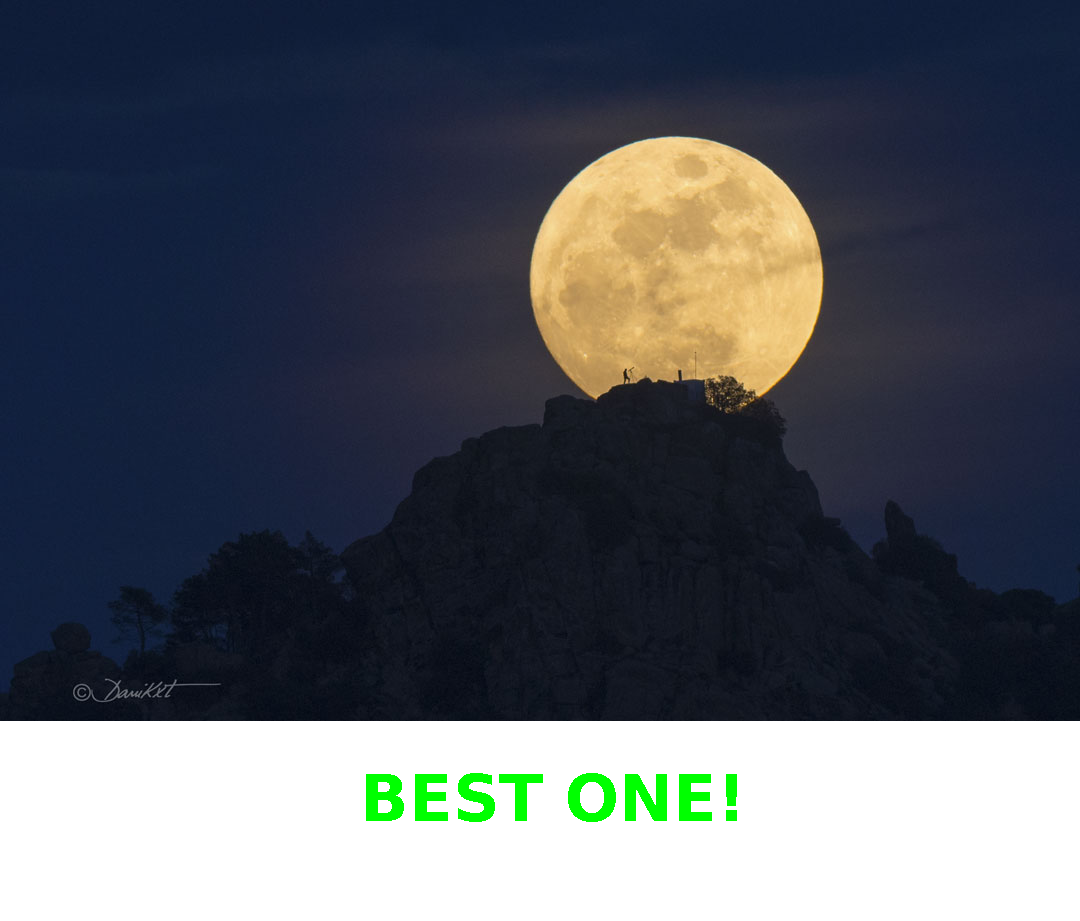
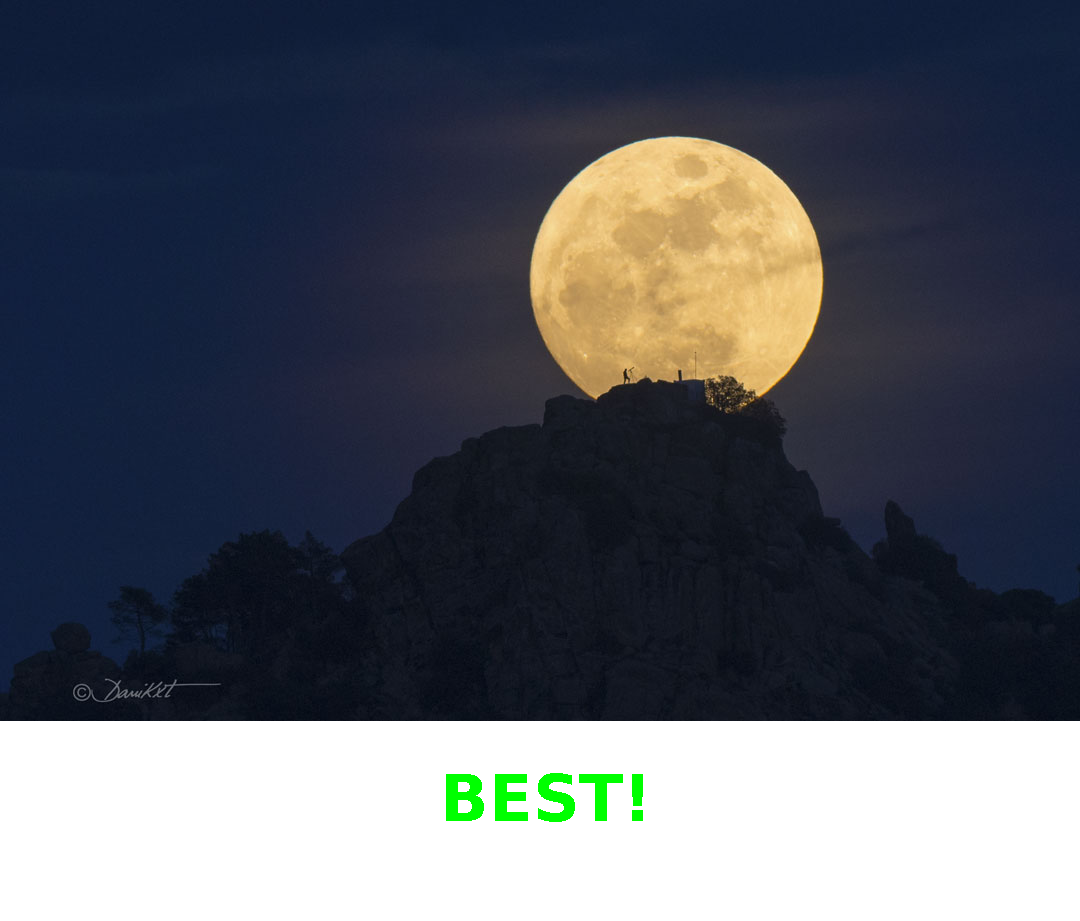
aula 3

Changed region(s): [[0.3361, 0.8208, 0.7028, 0.9121]]

diff --git a/src/App.java b/src/App.java
@@ -24,12 +24,11 @@ public class App {
         //- make http connection and get 250 top movies /////////////////////////////////////////
         //https://imdb-api.com/en/API/Top250Movies/k_6k2swk8s
         String url = "https://imdb-api.com/en/API/Top250Movies/"+ apiKeyIMDB;
-//        String url = "https://www.imdb.com/find/?q=series&ref_"+ apiKeyIMDB;
 
         // -nasa api https://api.nasa.gov/planetary/apod?api_key=DEMO_KEY ///////////////////////////
         String url2 = "https://api.nasa.gov/planetary/apod?api_key="+ apiKeyNASA+ "&start_date=2022-06-12&end_date=2022-06-14";
 
-        URI address = URI.create(url);
+        URI address = URI.create(url2);
        //HttpClient client = HttpClient.newHttpClient();//can only declare var if Java can find Type auto
         var client = HttpClient.newHttpClient();
        HttpRequest request = HttpRequest.newBuilder(address).GET().build();
@@ -48,13 +47,12 @@ public class App {
 
         //show data //////////////////////////////////////////////////////////////////////////////
         int size = contentList.size();
-        for (int i = 0; i < size ; i++){
+        for (Map<String, String> content : contentList) {
 //            Map<String, String> movie = movieList.get(i);
-            Map<String, String> content = contentList.get(i);
-//        for (Map<String,String> movie : movieList){
+            //        for (Map<String,String> movie : movieList){
 
             System.out.println("\u001B[1mTitle : " + content.get("title") + "\u001B[0m");
-            System.out.println("Image : " +content.get("url") );
+            System.out.println("Image : " + content.get("url"));
 
             //for imdb
             /*
@@ -67,7 +65,7 @@ public class App {
             System.out.println("\n-----------------------------------------");
 
             //alura regex
-            String urlImage = content.get("url").replaceAll("(@+)(.*).jpg$","$1.jpg");
+            String urlImage = content.get("url").replaceAll("(@+)(.*).jpg$", "$1.jpg");
 
             /*
             //to IMDB
@@ -81,11 +79,12 @@ public class App {
             String fileName =  movie.get("title") + ".png";
              */
 
-            String fileName =  content.get("title").substring(0, 3) + ".png";
+            String fileName = content.get("title").substring(0, 3) + ".png";
 
             System.out.println(fileName);
             InputStream inputStrem = new URL(urlImage).openStream();
             var genImage = new ImageGenerator();
+//            String comment = "Hey !";
             genImage.create(inputStrem, fileName);
 //            System.exit(0);
         }

diff --git a/src/ImageGenerator.java b/src/ImageGenerator.java
@@ -8,7 +8,7 @@ import java.net.URL;
 
 public class ImageGenerator {
 
-    public void create(InputStream inputStream, String fileName) throws IOException {
+    public void create(InputStream inputStream, String fileName ) throws IOException {
 
         //read image
 //        BufferedImage originalImage = ImageIO.read(new File("assets/movie_image_bigger.jpg"));//read from assets folder
@@ -36,8 +36,8 @@ public class ImageGenerator {
 
 
         //write sentence in the new image
-//        var text  = "BEST!";
-        var text  = "BEST ONE!";
+        var text  = "BEST!";
+//        var text  = comment;
         var center = width/2 - (text.length() * 20);    //lets image each char 20px
         graphics.drawString(text, center , newHeigh - 100);
 
